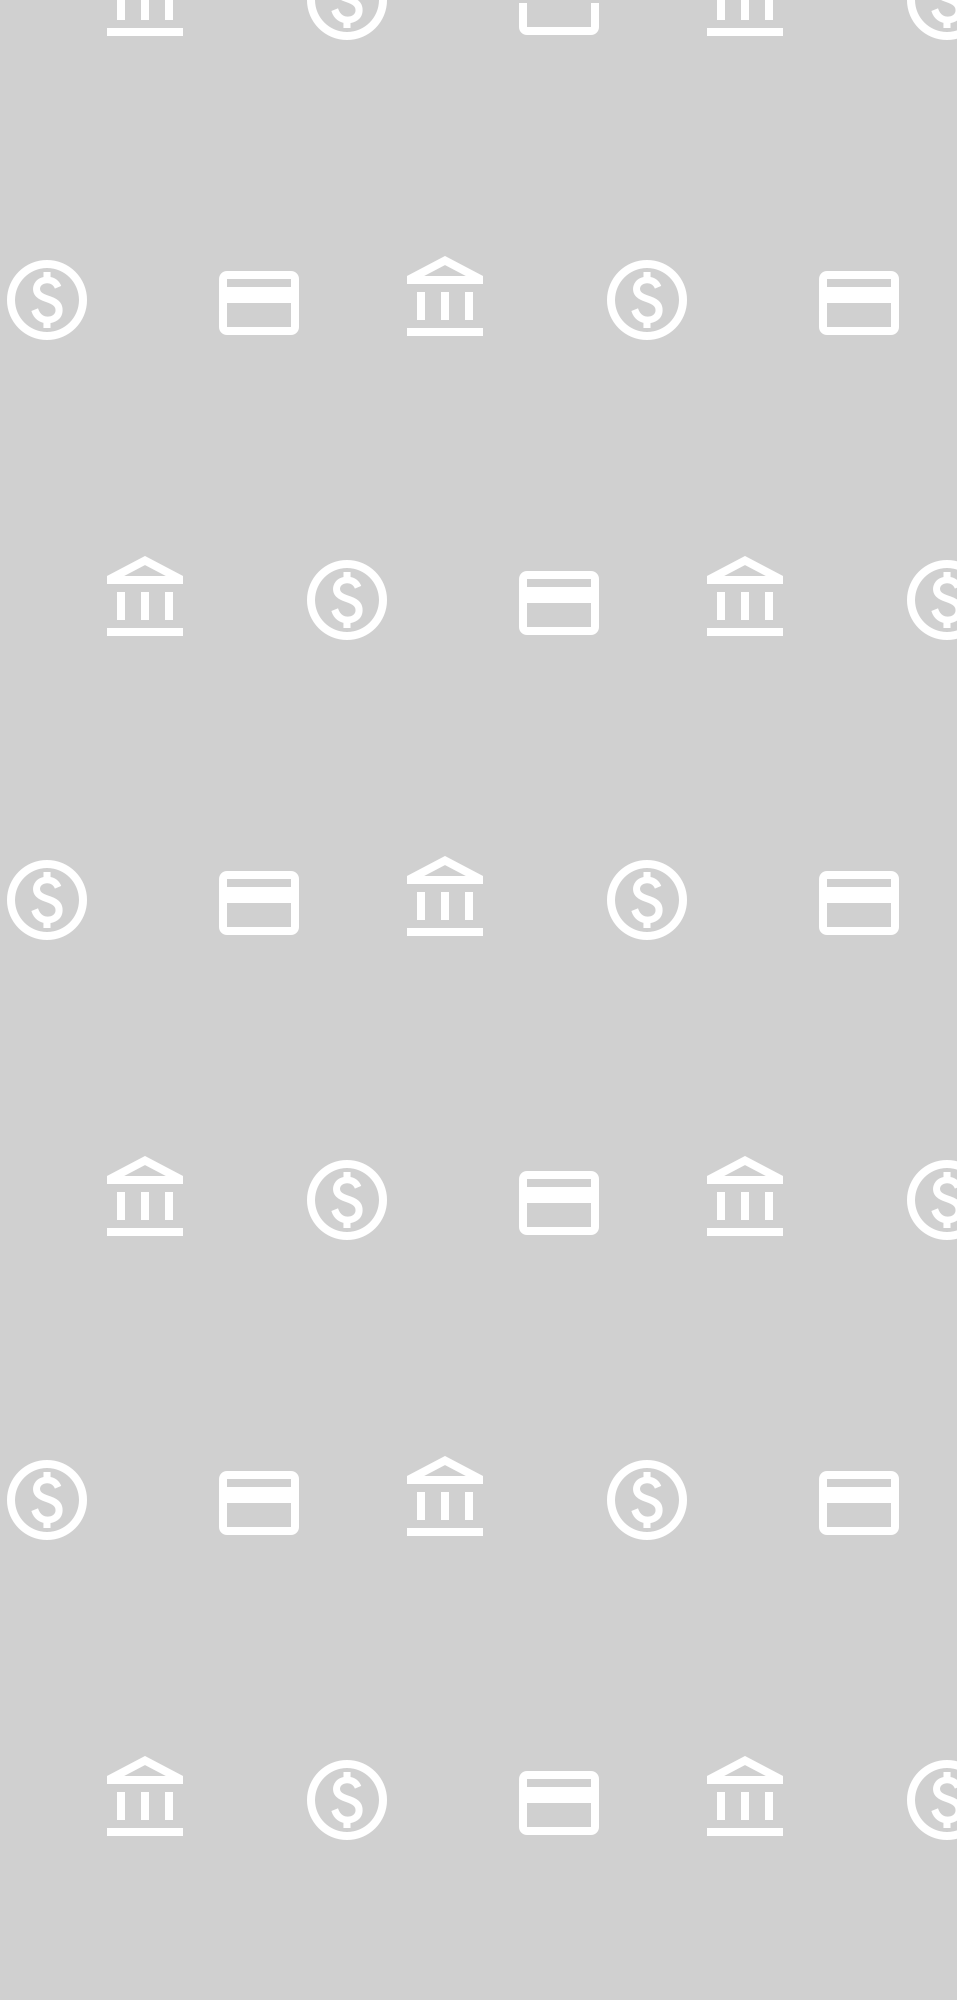
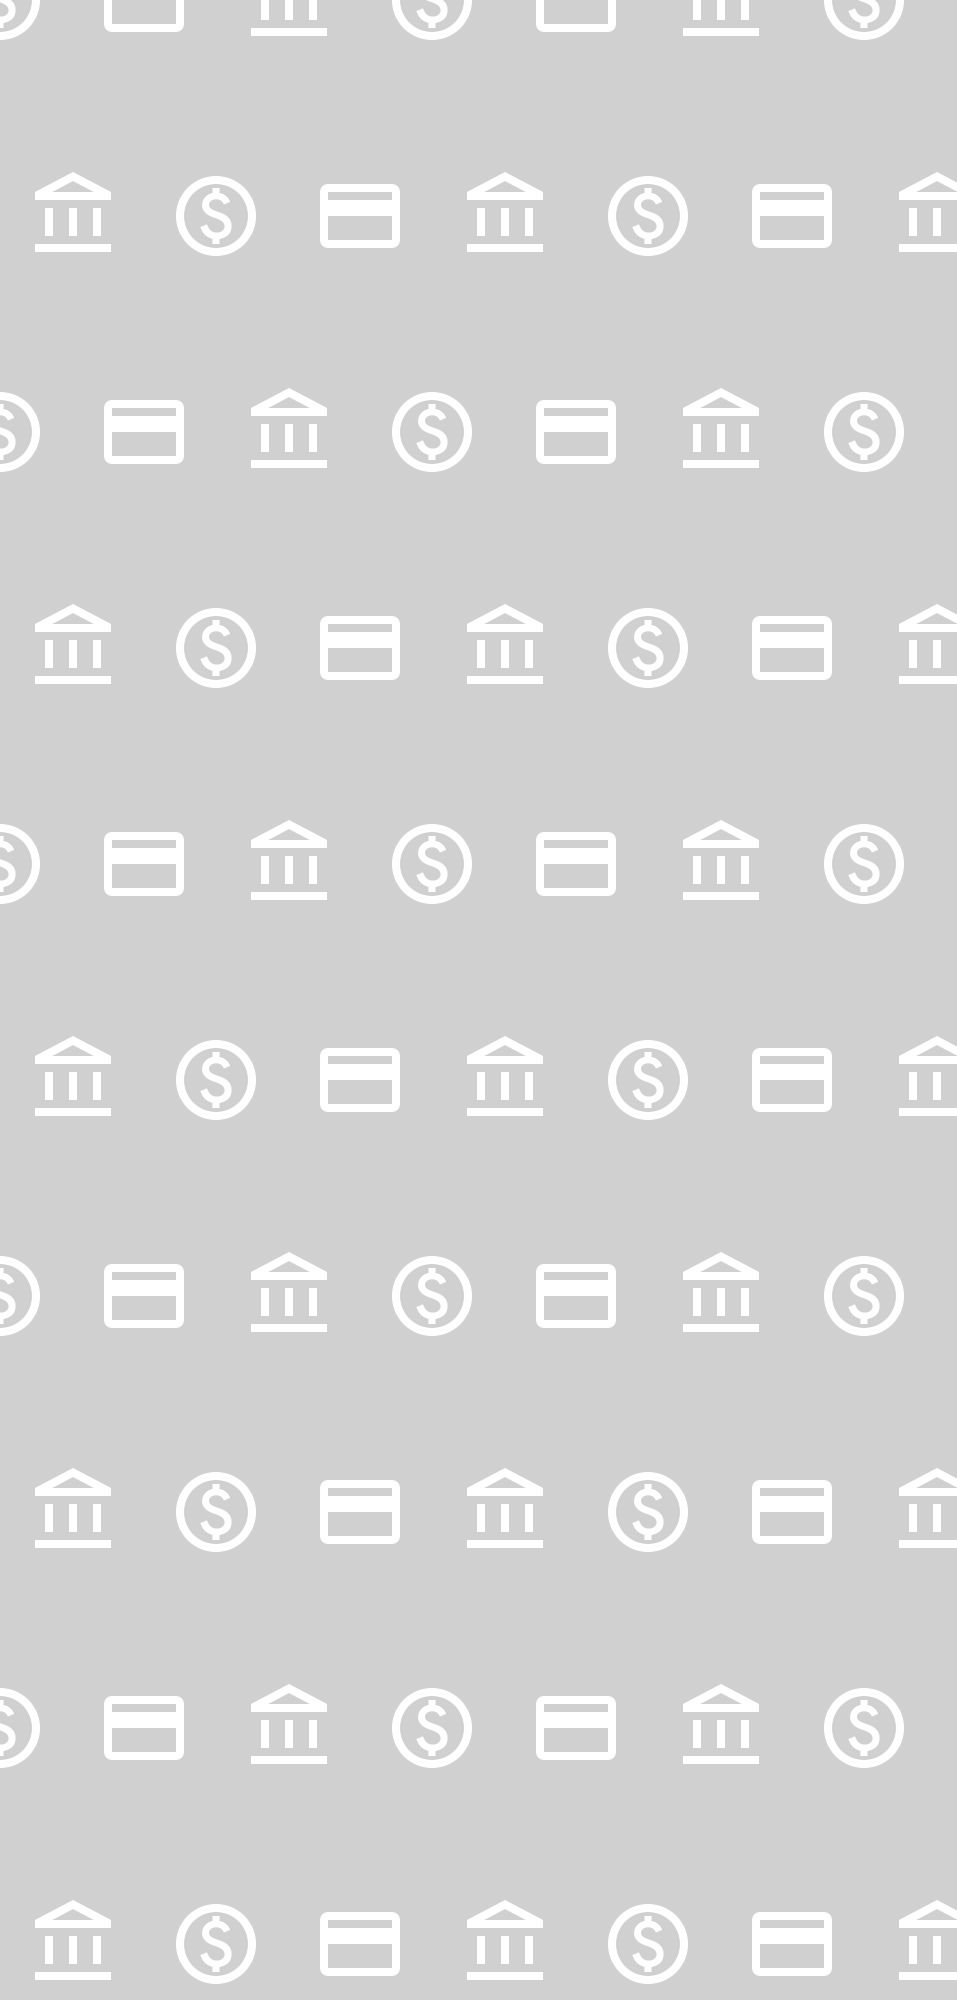
Charts UI update

diff --git a/flutter_code/lib/screens/chart_history_screen.dart b/flutter_code/lib/screens/chart_history_screen.dart
@@ -39,7 +39,7 @@ class _HistoryChart extends State<HistoryChart>{
       ),
       body: Stack(
         children: [
-          /*Container(
+          Container(
             width: MediaQuery.of(context).size.width,
             height: MediaQuery.of(context).size.height-64,
             child: FittedBox(
@@ -48,50 +48,68 @@ class _HistoryChart extends State<HistoryChart>{
                 child: Image.asset('images/wallpaper.png'),
               ),
             ),
-          ),*/
-          Column(
-              mainAxisSize: MainAxisSize.max,
-              children: [
-                //Initialize the chart widget
-                SfCartesianChart(
-                  margin: EdgeInsets.fromLTRB(8, 32, 32, 0),
-                  primaryXAxis: CategoryAxis(),
-                  // Chart title
-                  title: ChartTitle(text: 'Prikaz prijašnjih troškova', textStyle: GoogleFonts.quicksand(fontWeight: FontWeight.w500)),
-                  // Enable legend
-                  legend: Legend(isVisible: false),
-                  // Enable tooltip
-                  tooltipBehavior: TooltipBehavior(enable: false),
-                  series: <ChartSeries<_SalesData, String>>[
-                    SplineSeries<_SalesData, String>(
-                      dataSource: data,
-                      xValueMapper: (_SalesData sales, _) => sales.year,
-                      yValueMapper: (_SalesData sales, _) => sales.sales,
-                      name: "",
-                      // Enable data label
-                      dataLabelSettings: DataLabelSettings(isVisible: true))
-                  ]
-                ),
-                SfCartesianChart(
-                  margin: EdgeInsets.fromLTRB(8, 32, 32, 0),
-                  primaryXAxis: CategoryAxis(),
-                  // Chart title
-                  title: ChartTitle(text: 'Predikcija budućih troškova', textStyle: GoogleFonts.quicksand(fontWeight: FontWeight.w500)),
-                  // Enable legend
-                  legend: Legend(isVisible: false),
-                  // Enable tooltip
-                  tooltipBehavior: TooltipBehavior(enable: false),
-                  series: <ChartSeries<_SalesData, String>>[
-                    SplineSeries<_SalesData, String>(
-                      dataSource: data,
-                      xValueMapper: (_SalesData sales, _) => sales.year,
-                      yValueMapper: (_SalesData sales, _) => sales.sales,
-                      name: "",
-                      // Enable data label
-                      dataLabelSettings: DataLabelSettings(isVisible: true))
-                  ]
-              ),
-            ]
+          ),
+          SingleChildScrollView(
+            child: Column(
+                mainAxisSize: MainAxisSize.max,
+                children: [
+                  //Initialize the chart widget
+                  Container(
+                    margin: EdgeInsets.fromLTRB(16, 8, 16, 8),
+                    child: Card(
+                      shape: RoundedRectangleBorder(
+                          borderRadius: BorderRadius.circular(16)
+                      ),
+                      child: SfCartesianChart(
+                          margin: EdgeInsets.fromLTRB(8, 8, 8, 0),
+                          primaryXAxis: CategoryAxis(),
+                          // Chart title
+                          title: ChartTitle(text: 'Prikaz prijašnjih troškova', textStyle: GoogleFonts.quicksand(fontWeight: FontWeight.w500)),
+                          // Enable legend
+                          legend: Legend(isVisible: false),
+                          // Enable tooltip
+                          tooltipBehavior: TooltipBehavior(enable: false),
+                          series: <ChartSeries<_SalesData, String>>[
+                            SplineSeries<_SalesData, String>(
+                                dataSource: data,
+                                xValueMapper: (_SalesData sales, _) => sales.year,
+                                yValueMapper: (_SalesData sales, _) => sales.sales,
+                                name: "",
+                                // Enable data label
+                                dataLabelSettings: DataLabelSettings(isVisible: true))
+                          ]
+                      ),
+                    ),
+                  ),
+                  Container(
+                    margin: EdgeInsets.fromLTRB(16, 8, 16, 8),
+                    child: Card(
+                      shape: RoundedRectangleBorder(
+                          borderRadius: BorderRadius.circular(16)
+                      ),
+                      child: SfCartesianChart(
+                          margin: EdgeInsets.fromLTRB(8, 8, 8, 0),
+                          primaryXAxis: CategoryAxis(),
+                          // Chart title
+                          title: ChartTitle(text: 'Predikcija budućih troškova', textStyle: GoogleFonts.quicksand(fontWeight: FontWeight.w500)),
+                          // Enable legend
+                          legend: Legend(isVisible: false),
+                          // Enable tooltip
+                          tooltipBehavior: TooltipBehavior(enable: false),
+                          series: <ChartSeries<_SalesData, String>>[
+                            SplineSeries<_SalesData, String>(
+                                dataSource: data,
+                                xValueMapper: (_SalesData sales, _) => sales.year,
+                                yValueMapper: (_SalesData sales, _) => sales.sales,
+                                name: "",
+                                // Enable data label
+                                dataLabelSettings: DataLabelSettings(isVisible: true))
+                          ]
+                      ),
+                    ),
+                  ),
+                ]
+            ),
           ),
         ],
       ),

diff --git a/flutter_code/lib/screens/profile.dart b/flutter_code/lib/screens/profile.dart
@@ -52,7 +52,7 @@ class _Profile extends State<Profile> {
                   Container(
                     margin: EdgeInsets.fromLTRB(0, 16, 0, 16),
                     alignment: Alignment.center,
-                    child: Text("Boris Španić", style: GoogleFonts.quicksand(fontSize: 40, fontWeight: FontWeight.w800,),),
+                    child: Text("David Vodopija", style: GoogleFonts.quicksand(fontSize: 40, fontWeight: FontWeight.w800,),),
                     width: MediaQuery.of(context).size.width,
                   ),
                   Container(
